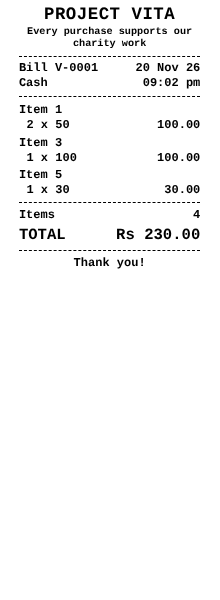
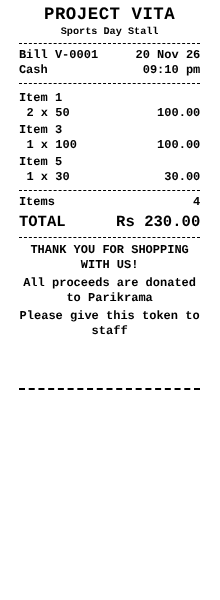
Add Sports Day footer and tear-line gap
Claude-Session: https://claude.ai/code/session_01Gk17gNzAeZ5LsSzndTgLRj

diff --git a/index.html b/index.html
@@ -80,6 +80,7 @@ details .grid{grid-template-columns:1fr 120px}
 <label for="cLeft">Shift right (mm, − for left)</label><input id="cLeft" type="number" step="0.5">
 <label for="cFont">Font size (px)</label><input id="cFont" type="number" step="0.5">
 <label for="cFeed">Bottom feed (mm)</label><input id="cFeed" type="number" step="0.5">
+<label for="cTail">Gap before tear line (mm)</label><input id="cTail" type="number" step="1">
 </div>
 </details>
 </div>
@@ -100,13 +101,17 @@ const MENU = [
 
 const STALL = {
   name: "PROJECT VITA",
-  tagline: "Every purchase supports our charity work",
-  footer: "Thank you!"
+  tagline: "Sports Day Stall",
+  footer: [
+    "THANK YOU FOR SHOPPING WITH US!",
+    "All proceeds are donated to Parikrama",
+    "Please give this token to staff"
+  ]
 };
 
 const FIREBASE_CONFIG = null;
 
-const DEFAULT_CAL = { mode: "printer", paper: 58, content: 48, left: 0, font: 12, feed: 4 };
+const DEFAULT_CAL = { mode: "printer", paper: 58, content: 48, left: 0, font: 12, feed: 4, tail: 12 };
 
 const $ = s => document.querySelector(s);
 const cart = new Map();
@@ -123,7 +128,7 @@ function bindCal() {
   const mode = document.getElementById("cMode");
   mode.value = cal.mode;
   mode.addEventListener("change", () => { cal.mode = mode.value; localStorage.setItem("vita_cal", JSON.stringify(cal)); });
-  const map = { cPaper: "paper", cContent: "content", cLeft: "left", cFont: "font", cFeed: "feed" };
+  const map = { cPaper: "paper", cContent: "content", cLeft: "left", cFont: "font", cFeed: "feed", cTail: "tail" };
   for (const [id, key] of Object.entries(map)) {
     const el = document.getElementById(id);
     el.value = cal[key];
@@ -217,7 +222,9 @@ function receiptBody(o) {
     <div class="kv"><span>Items</span><span>${o.items.reduce((a, i) => a + i.qty, 0)}</span></div>
     <div class="kv tot"><span>TOTAL</span><span>Rs ${o.total.toFixed(2)}</span></div>
     <div class="hr"></div>
-    <div class="c">${esc(STALL.footer)}</div>`;
+    ${STALL.footer.map(l => `<div class="c ft">${esc(l)}</div>`).join("")}
+    <div style="height:${cal.tail}mm"></div>
+    <div class="cut"></div>`;
 }
 
 function testBody() {
@@ -254,6 +261,8 @@ function printHTML(bodyHTML) {
       .nm{padding-top:.6mm}.sub{padding-left:2mm}
       .tot{font-size:1.3em;font-weight:900;padding-top:.8mm}
       .edge{display:flex;justify-content:space-between}
+      .ft{margin-top:.8mm}
+      .cut{border-top:2px dashed #000;margin-top:1mm}
       .fill{height:3mm;background:#000;margin:1mm 0}
     </style></head><body><div id="r">${bodyHTML}</div></body></html>`);
     doc.close();
